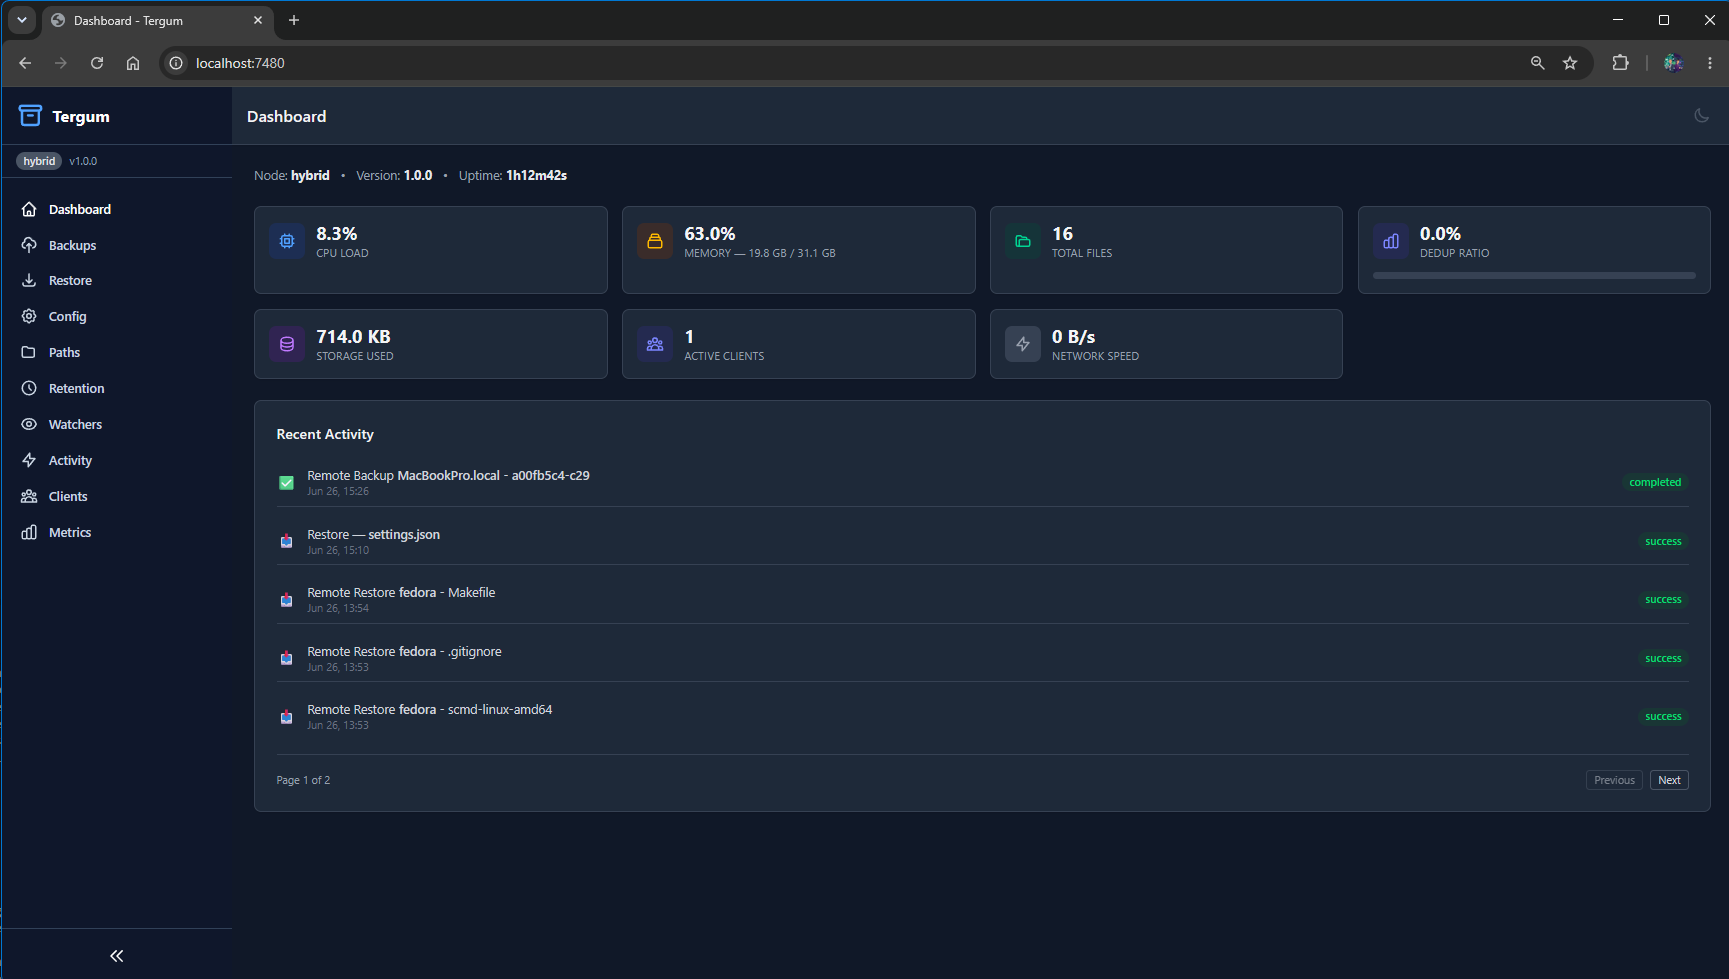
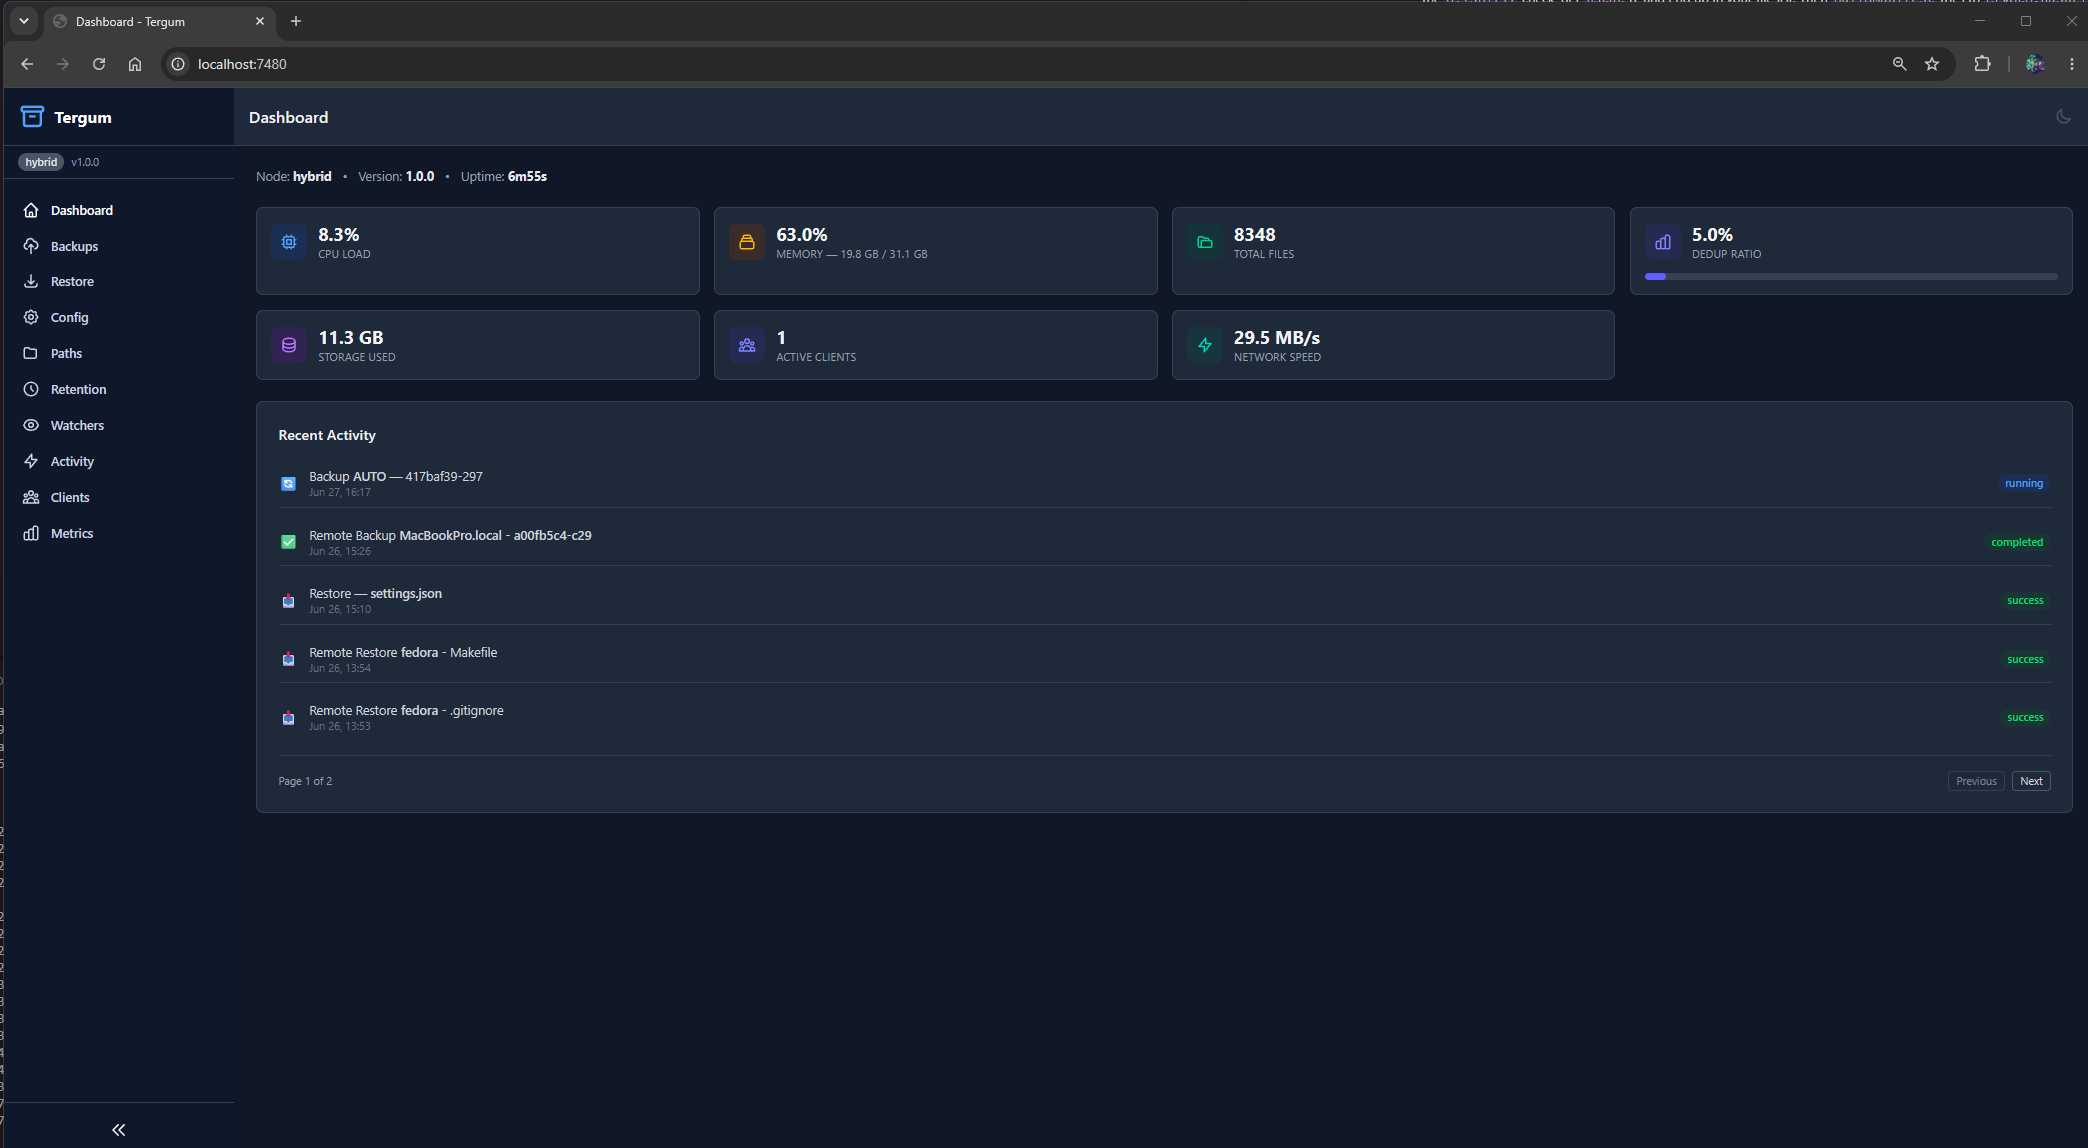
build 046 fix: scanner legacy NTFS junction points removed

diff --git a/internal/webui/templates/fragments/activity.html b/internal/webui/templates/fragments/activity.html
@@ -88,9 +88,9 @@
     </div>
 
     <!-- Terminal Board -->
-    <div class="bg-gray-950 rounded-xl shadow-xl border border-gray-800 overflow-hidden flex flex-col h-[calc(100vh-270px)] min-h-[400px] relative">
+    <div class="bg-gray-950 rounded-xl shadow-xl border border-gray-800 overflow-hidden flex flex-col h-[calc(100vh-270px)] min-h-[400px] relative" style="background-color: #030712;">
         <!-- Terminal Header -->
-        <div class="flex items-center justify-between px-4 py-3 bg-gray-900 border-b border-gray-800 select-none">
+        <div class="flex items-center justify-between px-4 py-3 bg-gray-900 border-b border-gray-800 select-none" style="background-color: #111827;">
             <div class="flex items-center gap-2">
                 <span class="w-3 h-3 rounded-full bg-red-500"></span>
                 <span class="w-3 h-3 rounded-full bg-yellow-500"></span>
@@ -106,7 +106,7 @@
         </div>
 
         <!-- Terminal Output -->
-        <div class="flex-1 overflow-y-auto p-4 font-mono text-xs text-gray-300 space-y-1.5 scrollbar-thin scrollbar-thumb-gray-800" x-ref="logContainer">
+        <div class="flex-1 overflow-y-auto p-4 font-mono text-xs text-gray-300 space-y-1.5 scrollbar-thin scrollbar-thumb-gray-800" x-ref="logContainer" style="background-color: #030712;">
             <!-- Loading indicator -->
             <template x-if="loading">
                 <div class="space-y-2 py-2">
@@ -127,7 +127,7 @@
                      :style="{
                          color: log.level === 'ERROR' ? '#f87171' : 
                                 log.level === 'WARN' ? '#fbbf24' : 
-                                log.level === 'DEBUG' ? '#c084fc' : '#e5e7eb',
+                                log.level === 'DEBUG' ? '#c084fc' : '#f9fafb',
                          backgroundColor: log.level === 'ERROR' ? 'rgba(127, 29, 29, 0.15)' : 
                                          log.level === 'WARN' ? 'rgba(120, 53, 4, 0.1)' : 
                                          log.level === 'DEBUG' ? 'rgba(88, 28, 135, 0.1)' : 'transparent'

diff --git a/internal/backup/scanner.go b/internal/backup/scanner.go
@@ -79,10 +79,22 @@ func Scan(ctx context.Context, includePaths []string, excludePatterns []string, 
 				return nil
 			}
 
+			// Skip reparse points (junctions/symlinks) that appear as files.
+			// On Windows, legacy junction points like "My Music", "My Pictures"
+			// inside user profile folders are inaccessible and should be skipped.
+			if d.Type()&fs.ModeSymlink != 0 || d.Type()&fs.ModeIrregular != 0 {
+				return nil
+			}
+
 			// Use Lstat to detect symlinks.
 			info, err := os.Lstat(path)
 			if err != nil {
 				// Can't stat, skip gracefully.
+				return nil
+			}
+
+			// Skip symlinks/reparse points detected via Lstat (catches Windows junctions).
+			if info.Mode()&os.ModeSymlink != 0 || isReparsePoint(info) {
 				return nil
 			}
 

diff --git a/internal/backup/scanner_windows.go b/internal/backup/scanner_windows.go
@@ -8,6 +8,18 @@ import (
 	"time"
 )
 
+// isReparsePoint checks whether a file is a Windows reparse point (junction, symlink, etc.).
+func isReparsePoint(info os.FileInfo) bool {
+	data := info.Sys()
+	if data == nil {
+		return false
+	}
+	if wfa, ok := data.(*syscall.Win32FileAttributeData); ok {
+		return wfa.FileAttributes&syscall.FILE_ATTRIBUTE_REPARSE_POINT != 0
+	}
+	return false
+}
+
 // fillPlatformMetadata fills platform-specific metadata fields on Windows.
 // Owner and group are left empty on Windows as they require different APIs.
 func fillPlatformMetadata(sf *ScannedFile, path string, info os.FileInfo) {

diff --git a/internal/backup/scanner_darwin.go b/internal/backup/scanner_darwin.go
@@ -10,6 +10,11 @@ import (
 	"time"
 )
 
+// isReparsePoint always returns false on Darwin (reparse points are Windows-only).
+func isReparsePoint(info os.FileInfo) bool {
+	return false
+}
+
 // fillPlatformMetadata fills platform-specific metadata fields (owner, group, timestamps).
 func fillPlatformMetadata(sf *ScannedFile, path string, info os.FileInfo) {
 	stat, ok := info.Sys().(*syscall.Stat_t)

diff --git a/internal/backup/scanner_unix.go b/internal/backup/scanner_unix.go
@@ -10,6 +10,11 @@ import (
 	"time"
 )
 
+// isReparsePoint always returns false on Linux (reparse points are Windows-only).
+func isReparsePoint(info os.FileInfo) bool {
+	return false
+}
+
 // fillPlatformMetadata fills platform-specific metadata fields (owner, group, timestamps).
 func fillPlatformMetadata(sf *ScannedFile, path string, info os.FileInfo) {
 	stat, ok := info.Sys().(*syscall.Stat_t)
